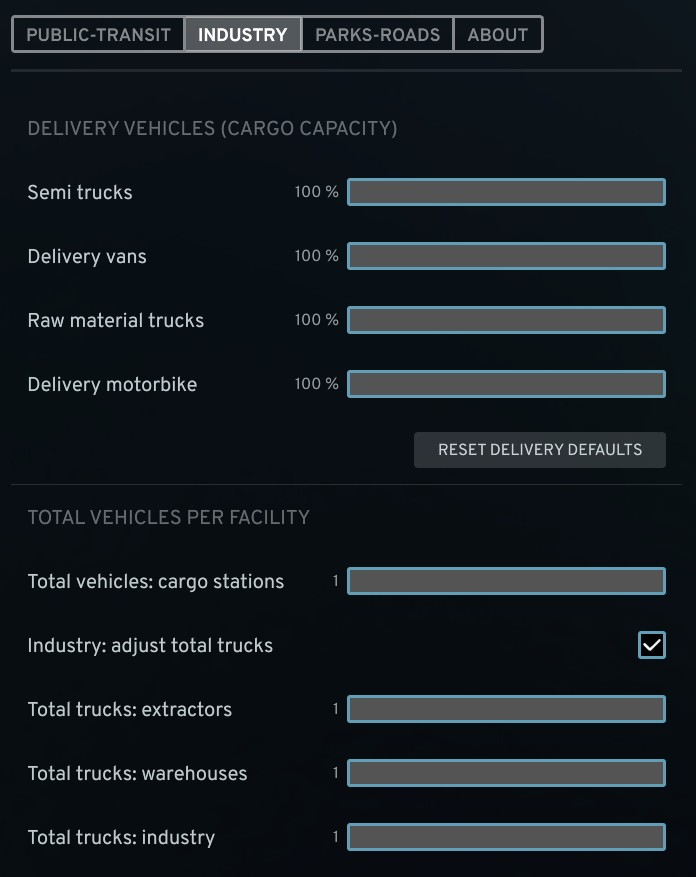
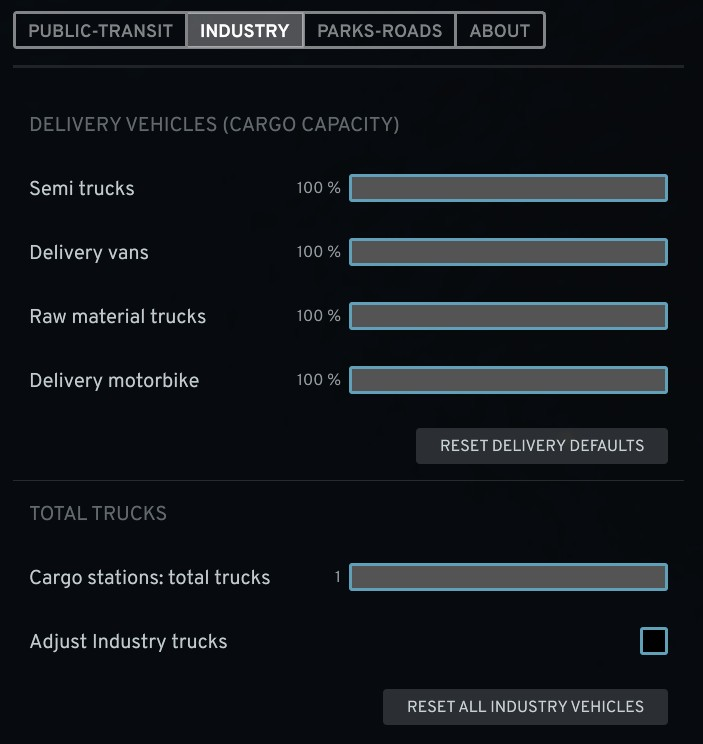
update EN and images

diff --git a/AllTransitTrucks/Localization/LocaleEN.cs b/AllTransitTrucks/Localization/LocaleEN.cs
@@ -213,12 +213,12 @@ namespace PublicWorksPlus
 
                 { m_Setting.GetOptionGroupLocaleID(ATTSettings.CargoStationsGroup), "Total trucks" },
 
-                { m_Setting.GetOptionLabelLocaleID(nameof(ATTSettings.CargoStationMaxTrucksScalar)), "Cargo stations: total trucks" },
+                { m_Setting.GetOptionLabelLocaleID(nameof(ATTSettings.CargoStationMaxTrucksScalar)), "Cargo stations, total trucks" },
                 { m_Setting.GetOptionDescLocaleID(nameof(ATTSettings.CargoStationMaxTrucksScalar)),
                     "Maximum active cargo vehicles for each **cargo harbor, train terminal, and airport**.\n" +
                     "**1×** = vanilla, **5×** = 5 times more." },
 
-                { m_Setting.GetOptionLabelLocaleID(nameof(ATTSettings.EnableCompanyTruckControl)), "Adjust Industry trucks" },
+                { m_Setting.GetOptionLabelLocaleID(nameof(ATTSettings.EnableCompanyTruckControl)), "Adjust Industry Trucks" },
                 { m_Setting.GetOptionDescLocaleID(nameof(ATTSettings.EnableCompanyTruckControl)),
                     "<[x] Default ON>.\n" +
                     "Controls ATT's extractor, warehouse, and industrial processing truck limits.\n" +
@@ -228,19 +228,19 @@ namespace PublicWorksPlus
                     "Cargo station vehicles and delivery cargo capacities are not affected.\n"
                      },
 
-                { m_Setting.GetOptionLabelLocaleID(nameof(ATTSettings.ExtractorMaxTrucksScalar)), "Extractors" },
+                { m_Setting.GetOptionLabelLocaleID(nameof(ATTSettings.ExtractorMaxTrucksScalar)), "Extractor trucks" },
                 { m_Setting.GetOptionDescLocaleID(nameof(ATTSettings.ExtractorMaxTrucksScalar)),
                     "Maximum trucks for each extractor company.\n" +
                     "Includes farms, forestry, fishing, oil, ore, coal, stone, cotton, livestock, and vegetables.\n" +
                     "**1×** = vanilla, **5×** = 5 times more." },
 
-                { m_Setting.GetOptionLabelLocaleID(nameof(ATTSettings.WarehouseMaxTrucksScalar)), "Warehouses" },
+                { m_Setting.GetOptionLabelLocaleID(nameof(ATTSettings.WarehouseMaxTrucksScalar)), "Warehouse trucks" },
                 { m_Setting.GetOptionDescLocaleID(nameof(ATTSettings.WarehouseMaxTrucksScalar)),
                     "Maximum trucks for each warehouse company.\n" +
                     "Includes all warehouse resource types that have their own vehicles.\n" +
                     "**1×** = vanilla, **5×** = 5 times more." },
 
-                { m_Setting.GetOptionLabelLocaleID(nameof(ATTSettings.IndustryMaxTrucksScalar)), "Industry" },
+                { m_Setting.GetOptionLabelLocaleID(nameof(ATTSettings.IndustryMaxTrucksScalar)), "Industry trucks" },
                 { m_Setting.GetOptionDescLocaleID(nameof(ATTSettings.IndustryMaxTrucksScalar)),
                     "Maximum trucks for industrial processing companies.\n" +
                     "Does not include extractors, warehouses, cargo stations, commercial companies, or office companies.\n" +
